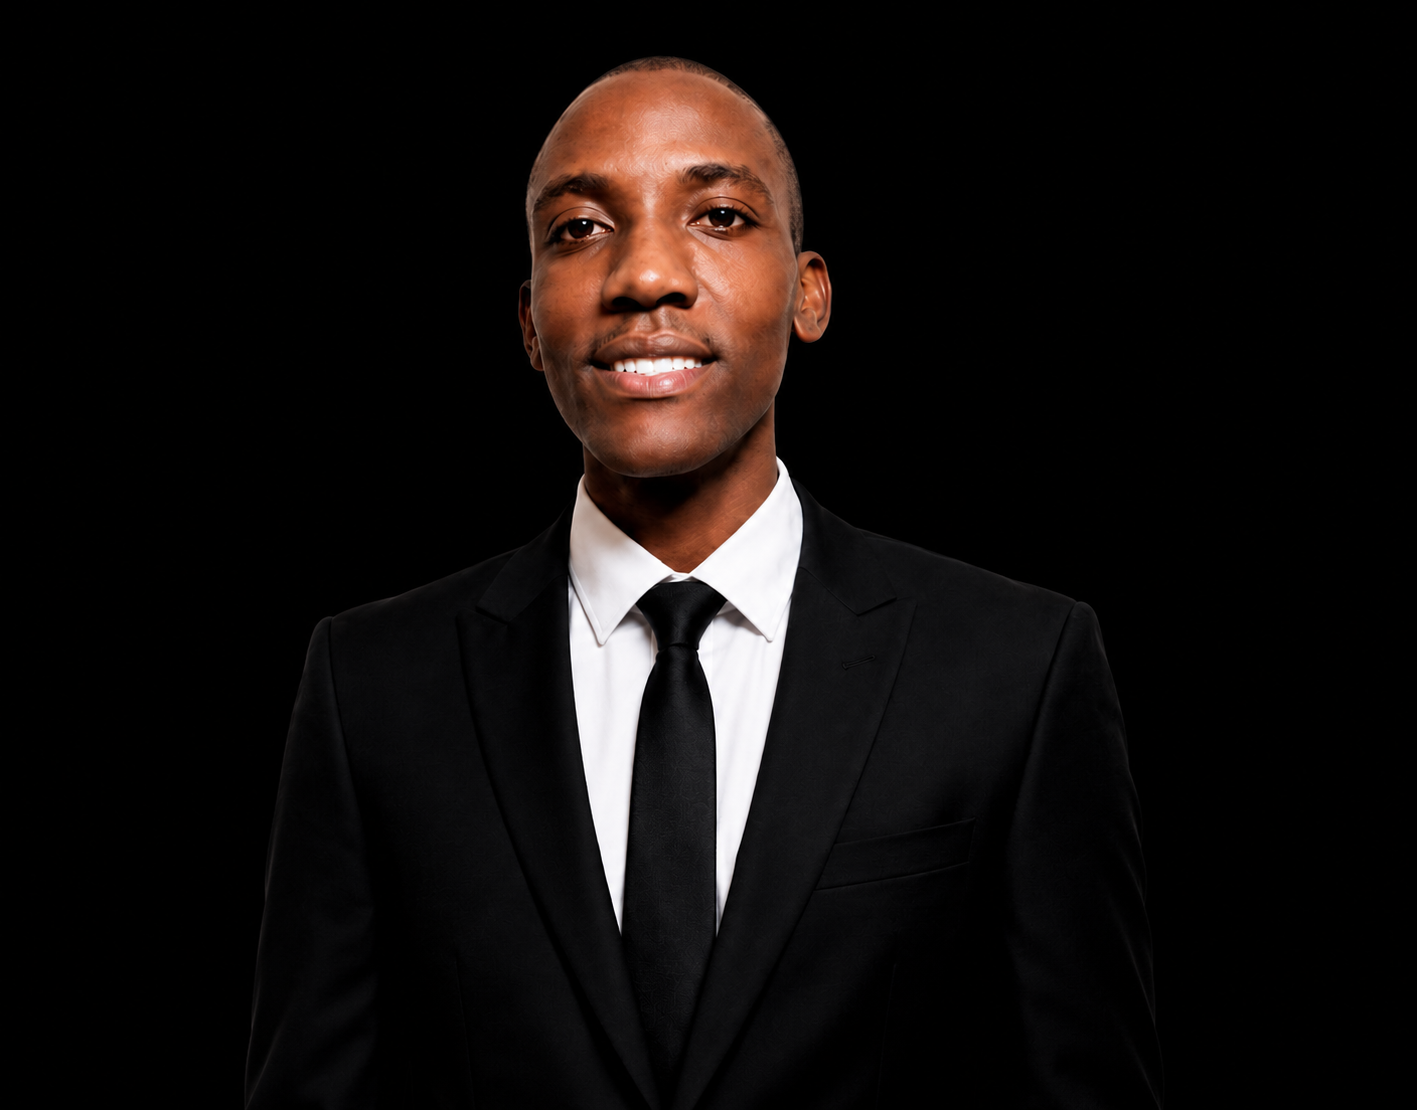
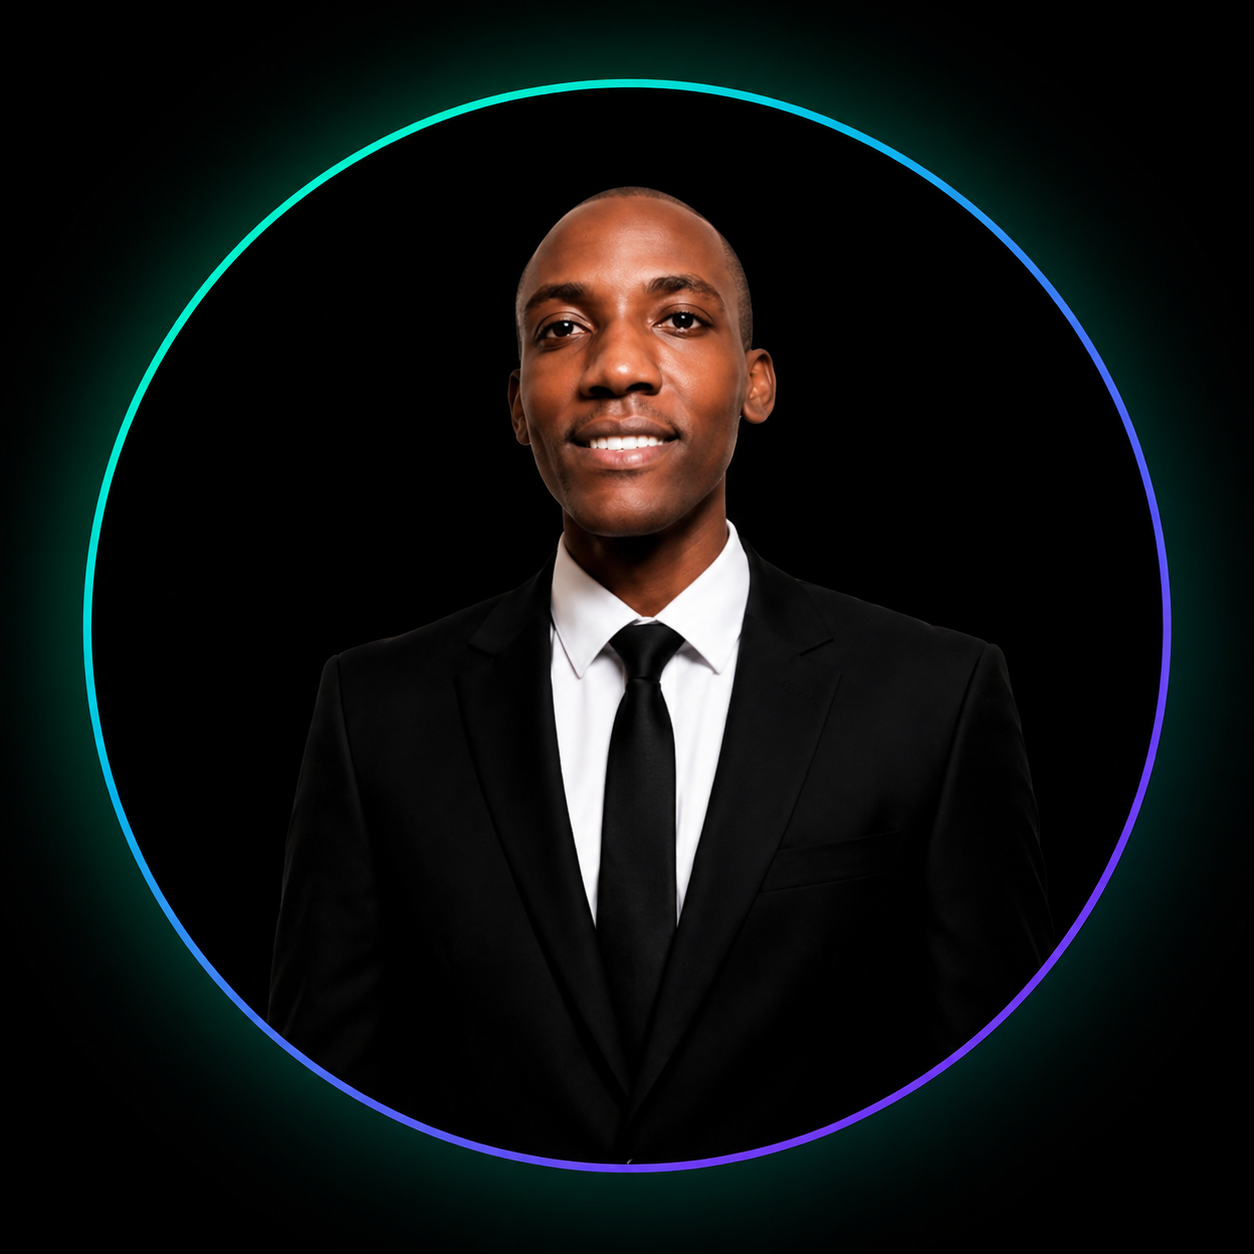
design: perfectly center chatgpt profile picture and fill gaps

Changed region(s): [[0.0311, 0.0306, 0.9641, 0.9495], [0.4665, 0.8577, 0.4976, 0.8883]]

diff --git a/src/components/Hero.jsx b/src/components/Hero.jsx
@@ -100,8 +100,8 @@ const Hero = () => (
               <img
                 src={profileImg}
                 alt="Koketso Raphasha - Software Engineer & Co-Founder"
-                className="w-full h-full object-cover scale-110"
-                style={{ objectPosition: 'center 10%' }}
+                className="w-full h-full object-cover scale-100"
+                style={{ objectPosition: 'center 65%' }}
                 loading="eager"
                 decoding="async"
               />